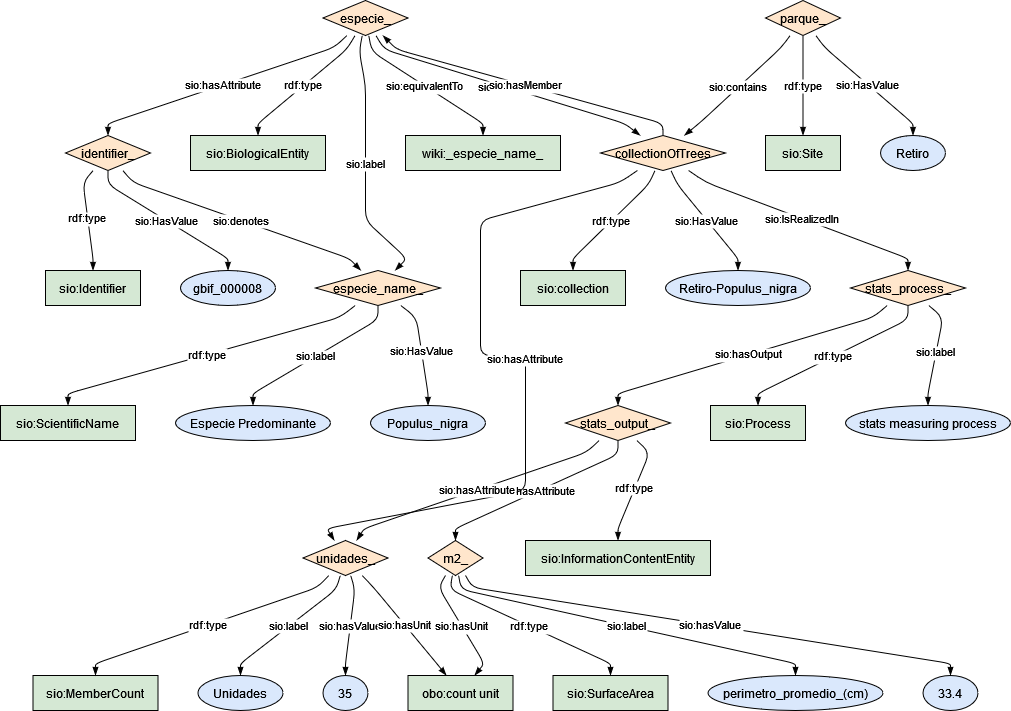
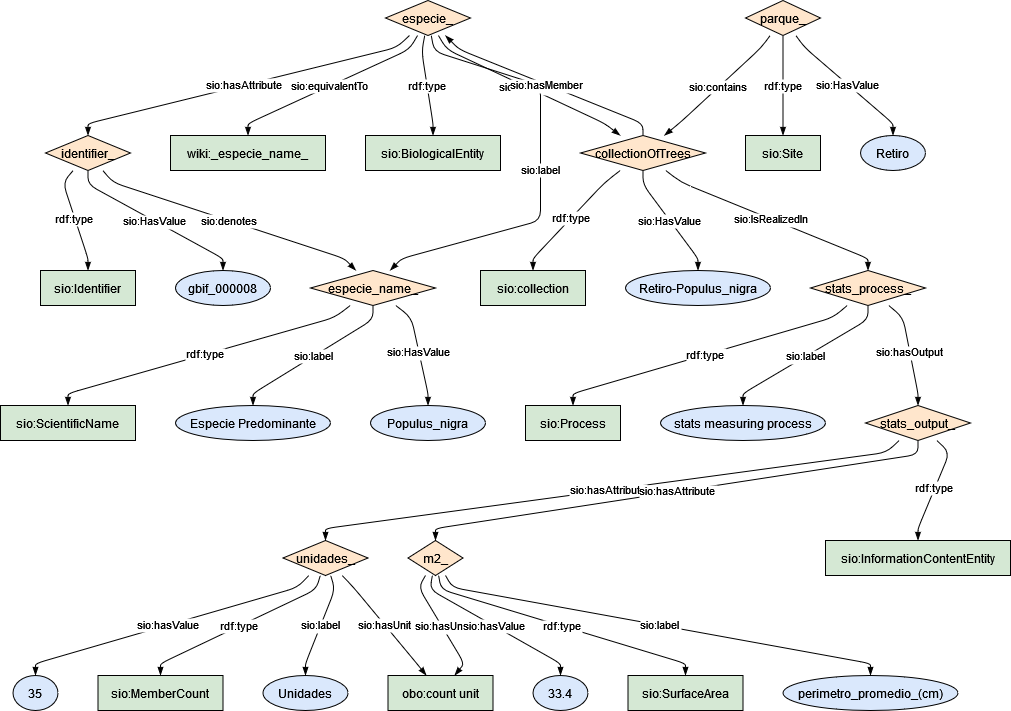
added RDFication for file 5

diff --git a/notebooks/5-MasasParquesHistoricoSingularesForestales.md b/notebooks/5-MasasParquesHistoricoSingularesForestales.md
@@ -21,6 +21,8 @@ This module describes the data elements related to tree inventory dataset.
 @prefix dc: <http://purl.org/dc/elements/1.1/> .
 @prefix wiki: <http://en.wikipedia.org/wiki/> .
 
+
+
 :parque_ a sio:Site ;
     sio:HasValue "Retiro"^^xsd:string ;
     sio:contains  :collectionOfTrees .
@@ -30,7 +32,6 @@ This module describes the data elements related to tree inventory dataset.
 
 :collectionOfTrees a sio:collection ;
     sio:HasValue "Retiro-Populus_nigra"^^xsd:string ;
-    sio:hasAttribute :unidades_ ;
     sio:IsRealizedIn :stats_process_ ;
     sio:hasMember :especie_ .
 
